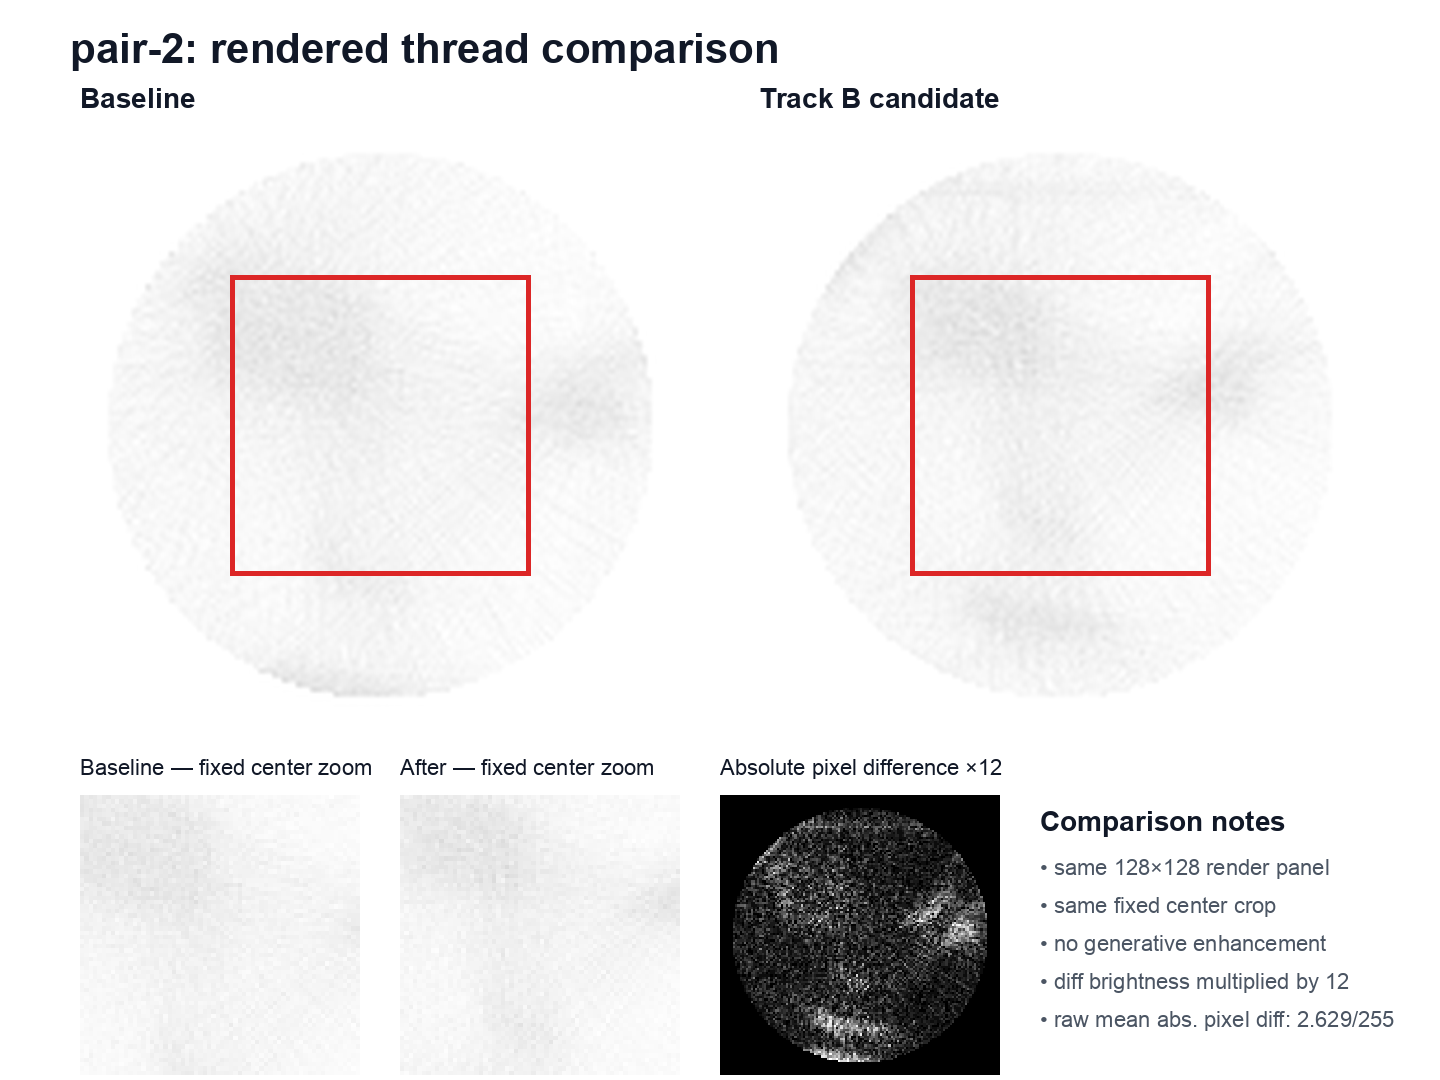
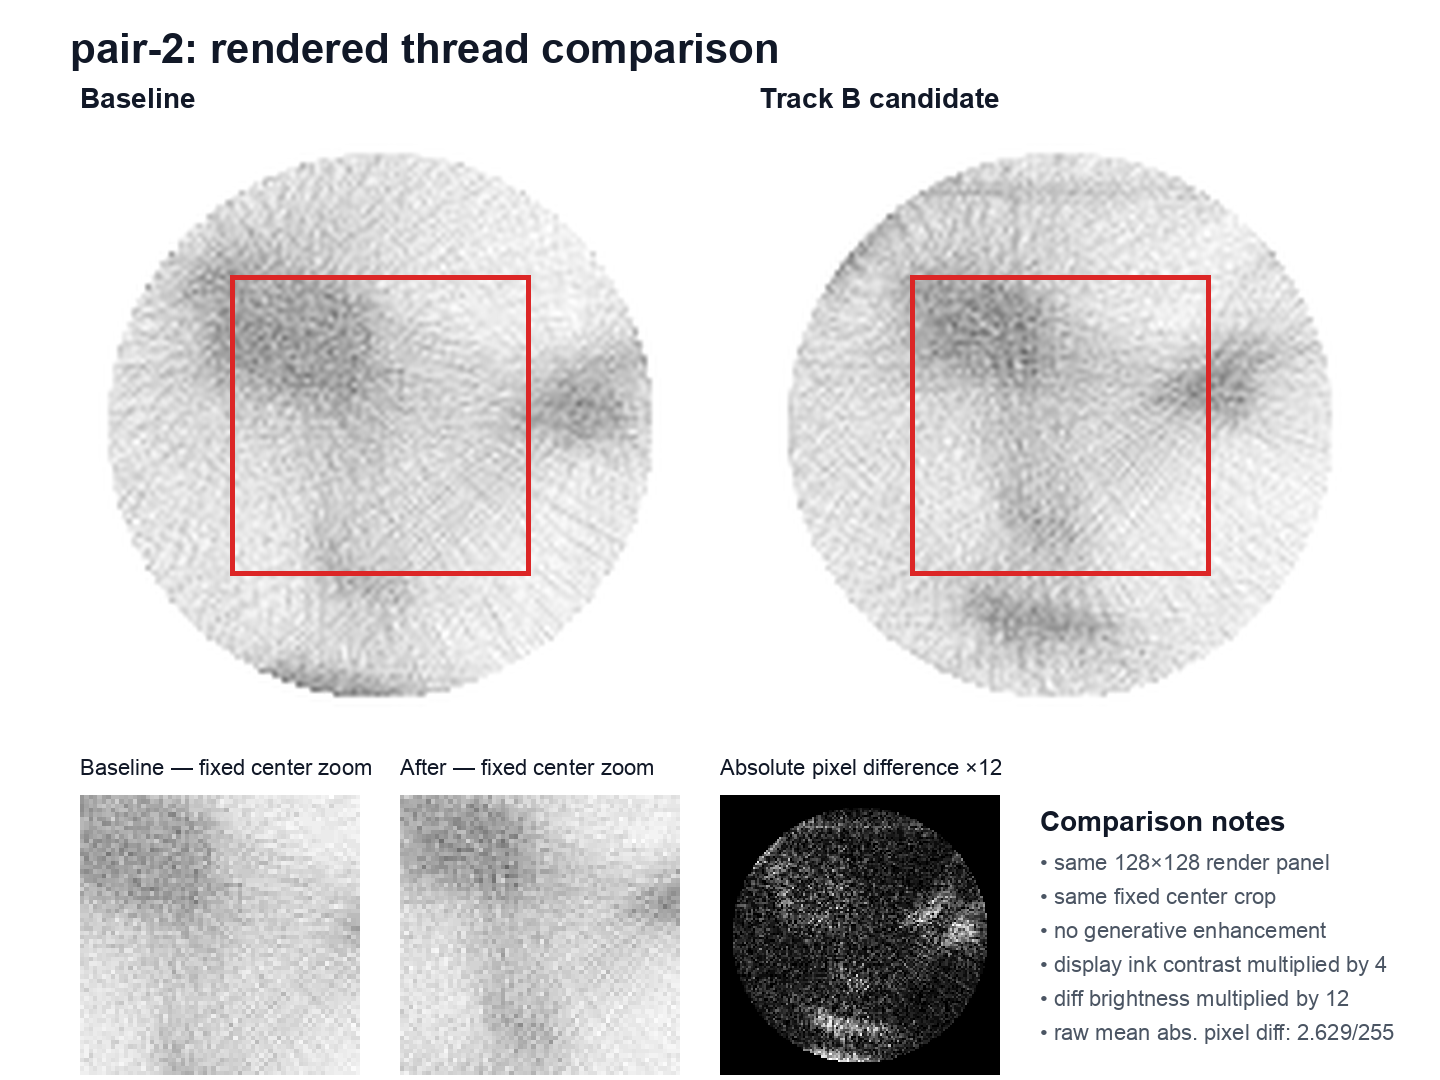
Improve documentation comparison images

diff --git a/scripts/build_gallery_assets.py b/scripts/build_gallery_assets.py
@@ -9,21 +9,104 @@ from PIL import Image, ImageChops, ImageDraw, ImageFont, ImageStat
 ROOT = Path(__file__).resolve().parents[1]
 ASSETS = ROOT / "portfolio" / "assets"
 PAIRS = ("pair-1", "pair-2", "pair-3", "pair-7")
+DISPLAY_INK_SCALE = {"pair-2": 4}
 
 
 def main():
     for pair_id in PAIRS:
-        before = thread_panel(Image.open(ASSETS / f"{pair_id}-before.png"))
-        after = thread_panel(Image.open(ASSETS / f"{pair_id}-after.png"))
+        before_asset = Image.open(ASSETS / f"{pair_id}-before.png")
+        after_asset = Image.open(ASSETS / f"{pair_id}-after.png")
+        before = thread_panel(before_asset)
+        after = thread_panel(after_asset)
         output = ASSETS / f"{pair_id}-detail-diff.png"
         build_panel(pair_id, before, after).save(output)
         print(output)
+        comparison_output = ASSETS / f"{pair_id}-source-render-comparison.png"
+        source = source_panel(before_asset)
+        build_source_render_panel(pair_id, source, before, after).save(
+            comparison_output,
+            optimize=True,
+        )
+        print(comparison_output)
 
 
 def thread_panel(image):
     image = image.convert("RGB")
     panel_width = image.width // 3
     return image.crop((panel_width, 0, panel_width * 2, image.height))
+
+
+def source_panel(image):
+    image = image.convert("RGB")
+    panel_width = image.width // 3
+    return image.crop((0, 0, panel_width, image.height))
+
+
+def build_source_render_panel(pair_id, source, before, after):
+    """Build a compact, high-contrast comparison with source context."""
+    canvas = Image.new("RGB", (1400, 820), (247, 248, 251))
+    draw = ImageDraw.Draw(canvas)
+    title_color = (17, 24, 39)
+    muted = (91, 100, 115)
+    accent = (239, 68, 68)
+    card = (255, 255, 255)
+
+    draw.text(
+        (70, 48),
+        "Human preference reveals what metrics miss",
+        fill=title_color,
+        font=font(42, bold=True),
+    )
+    draw.text(
+        (70, 108),
+        f"{pair_id} · Source context and high-visibility thread renders",
+        fill=muted,
+        font=font(23),
+    )
+
+    cards = (
+        (60, 280, "SOURCE", source, 1),
+        (390, 430, "BASELINE", before, 5),
+        (860, 430, "TRACK B", after, 5),
+    )
+    for x, width, label, image, ink_scale in cards:
+        draw.rounded_rectangle((x, 170, x + width, 670), radius=26, fill=card)
+        draw.text((x + 40, 205), label, fill=accent, font=font(20, bold=True))
+        size = 220 if label == "SOURCE" else 320
+        image_x = x + (width - size) // 2
+        image_y = 275 if label == "SOURCE" else 265
+        displayed = image if label == "SOURCE" else darken_ink(image, ink_scale)
+        paste_circle(canvas, displayed, (image_x, image_y), size)
+        if label == "SOURCE":
+            draw.text(
+                (x + 38, 535),
+                "Open-license source",
+                fill=title_color,
+                font=font(22, bold=True),
+            )
+            draw.text((x + 38, 575), "same source · blind review", fill=muted, font=font(18))
+        else:
+            draw.text(
+                (x + 72, 610),
+                f"128×128 render · contrast ×{ink_scale}",
+                fill=muted,
+                font=font(18),
+            )
+
+    draw.text(
+        (70, 742),
+        "Actual StringArtio renders · display-only contrast · no generative enhancement",
+        fill=muted,
+        font=font(19),
+    )
+    return canvas
+
+
+def paste_circle(canvas, image, position, size):
+    resized = image.resize((size, size), Image.Resampling.LANCZOS)
+    mask = Image.new("L", (size, size), 0)
+    ImageDraw.Draw(mask).ellipse((0, 0, size - 1, size - 1), fill=255)
+    canvas.paste(resized, position, mask)
 
 
 def build_panel(pair_id, before, after):
@@ -39,9 +122,13 @@ def build_panel(pair_id, before, after):
     draw.text((80, 82), "Baseline", fill=(17, 24, 39), font=heading_font)
     draw.text((760, 82), "Track B candidate", fill=(17, 24, 39), font=heading_font)
 
+    ink_scale = DISPLAY_INK_SCALE.get(pair_id, 1)
+    before_display = darken_ink(before, ink_scale)
+    after_display = darken_ink(after, ink_scale)
+
     full_size = (600, 600)
-    before_large = before.resize(full_size, Image.Resampling.LANCZOS)
-    after_large = after.resize(full_size, Image.Resampling.LANCZOS)
+    before_large = before_display.resize(full_size, Image.Resampling.LANCZOS)
+    after_large = after_display.resize(full_size, Image.Resampling.LANCZOS)
     canvas.paste(before_large, (80, 125))
     canvas.paste(after_large, (760, 125))
 
@@ -50,8 +137,8 @@ def build_panel(pair_id, before, after):
         draw.rectangle((x + 150, 275, x + 450, 575), outline=accent, width=5)
 
     zoom_size = (280, 280)
-    before_zoom = before.crop(zoom_box).resize(zoom_size, Image.Resampling.NEAREST)
-    after_zoom = after.crop(zoom_box).resize(zoom_size, Image.Resampling.NEAREST)
+    before_zoom = before_display.crop(zoom_box).resize(zoom_size, Image.Resampling.NEAREST)
+    after_zoom = after_display.crop(zoom_box).resize(zoom_size, Image.Resampling.NEAREST)
     raw_diff = ImageChops.difference(after, before)
     amplified_diff = raw_diff.point(lambda value: min(255, value * 12))
     diff_large = amplified_diff.resize(zoom_size, Image.Resampling.NEAREST)
@@ -74,9 +161,20 @@ def build_panel(pair_id, before, after):
         "• diff brightness multiplied by 12",
         f"• raw mean abs. pixel diff: {mean_difference:.3f}/255",
     ]
+    if ink_scale != 1:
+        notes.insert(3, f"• display ink contrast multiplied by {ink_scale}")
+    note_y = 850 if ink_scale != 1 else 855
+    note_step = 34 if ink_scale != 1 else 38
     for index, note in enumerate(notes):
-        draw.text((1040, 855 + index * 38), note, fill=muted, font=body_font)
+        draw.text((1040, note_y + index * note_step), note, fill=muted, font=body_font)
     return canvas
+
+
+def darken_ink(image, scale):
+    """Increase display contrast while preserving white and the original geometry."""
+    if scale == 1:
+        return image
+    return image.point(lambda value: max(0, 255 - (255 - value) * scale))
 
 
 def font(size, bold=False):

diff --git a/docs/case-study.md b/docs/case-study.md
@@ -109,26 +109,35 @@ for cat (0.551531→0.559426), +5.86% for portrait (0.519201→0.549611),
 +1.40% for complex background (0.557362→0.565161), and +13.81% for backlight
 (0.396883→0.451710). These metric gains still require blind review.
 
-Each panel enlarges the rendered thread output, marks the same fixed center crop,
-shows that crop without smoothing, and includes an absolute pixel difference
-image brightened 12×. The raw mean absolute difference is printed in each panel.
-No generated detail or subjective enhancement was added.
+Each panel places the original source beside the Baseline and Track B thread
+renders. Display contrast is increased 5× so the 128×128 thread geometry remains
+legible at documentation scale; the source pixels, render geometry, and evaluation
+data are unchanged. The linked detail views retain the fixed center crop and the
+12× absolute pixel difference. No generated detail was added.
 
 ### Cat
 
-![Cat baseline, Track B, fixed zoom, and difference](../portfolio/assets/pair-1-detail-diff.png)
+![Original cat with Baseline and Track B thread renders](../portfolio/assets/pair-1-source-render-comparison.png)
+
+[Fixed crop and pixel difference](../portfolio/assets/pair-1-detail-diff.png)
 
 ### Portrait
 
-![Portrait baseline, Track B, fixed zoom, and difference](../portfolio/assets/pair-2-detail-diff.png)
+![Original portrait with Baseline and Track B thread renders](../portfolio/assets/pair-2-source-render-comparison.png)
+
+[Fixed crop and pixel difference](../portfolio/assets/pair-2-detail-diff.png)
 
 ### Complex background
 
-![Complex-background baseline, Track B, fixed zoom, and difference](../portfolio/assets/pair-3-detail-diff.png)
+![Original complex-background source with Baseline and Track B thread renders](../portfolio/assets/pair-3-source-render-comparison.png)
+
+[Fixed crop and pixel difference](../portfolio/assets/pair-3-detail-diff.png)
 
 ### Backlight
 
-![Backlight baseline, Track B, fixed zoom, and difference](../portfolio/assets/pair-7-detail-diff.png)
+![Original backlight source with Baseline and Track B thread renders](../portfolio/assets/pair-7-source-render-comparison.png)
+
+[Fixed crop and pixel difference](../portfolio/assets/pair-7-detail-diff.png)
 
 Blind review example — candidate identity and diagnostics are hidden until the
 reviewer chooses A, B, tie, or `both_bad`:
